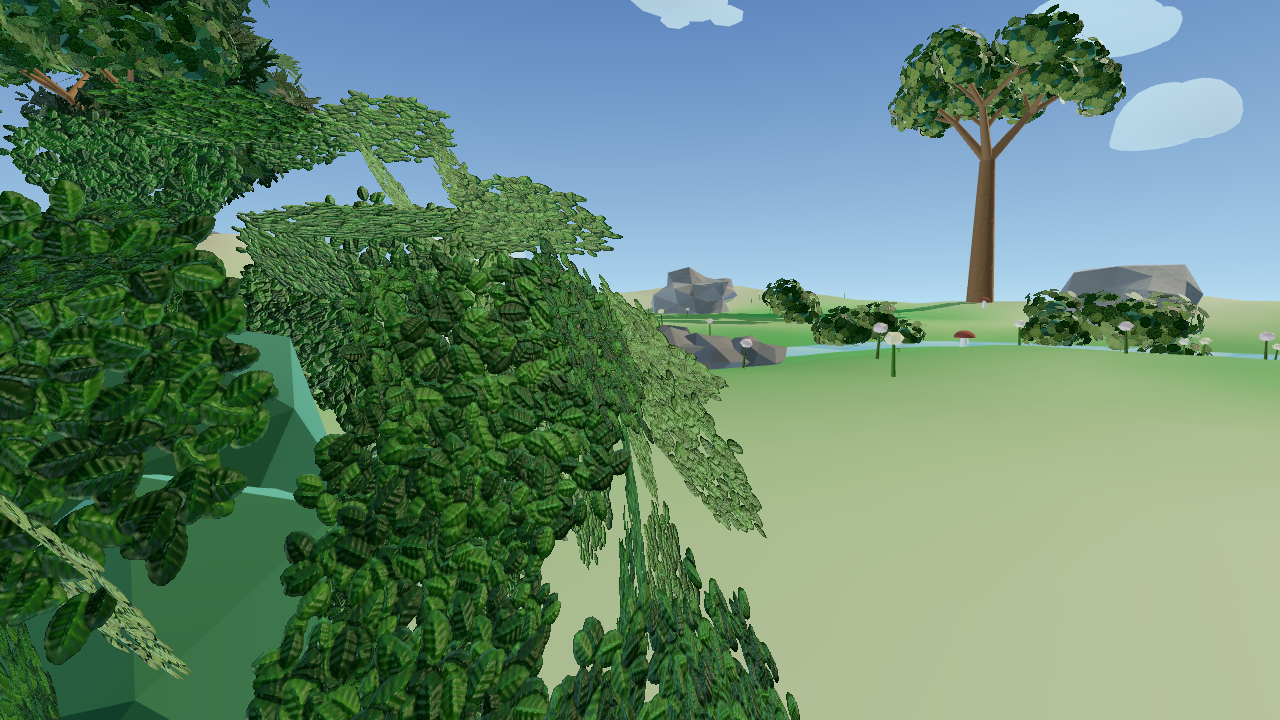
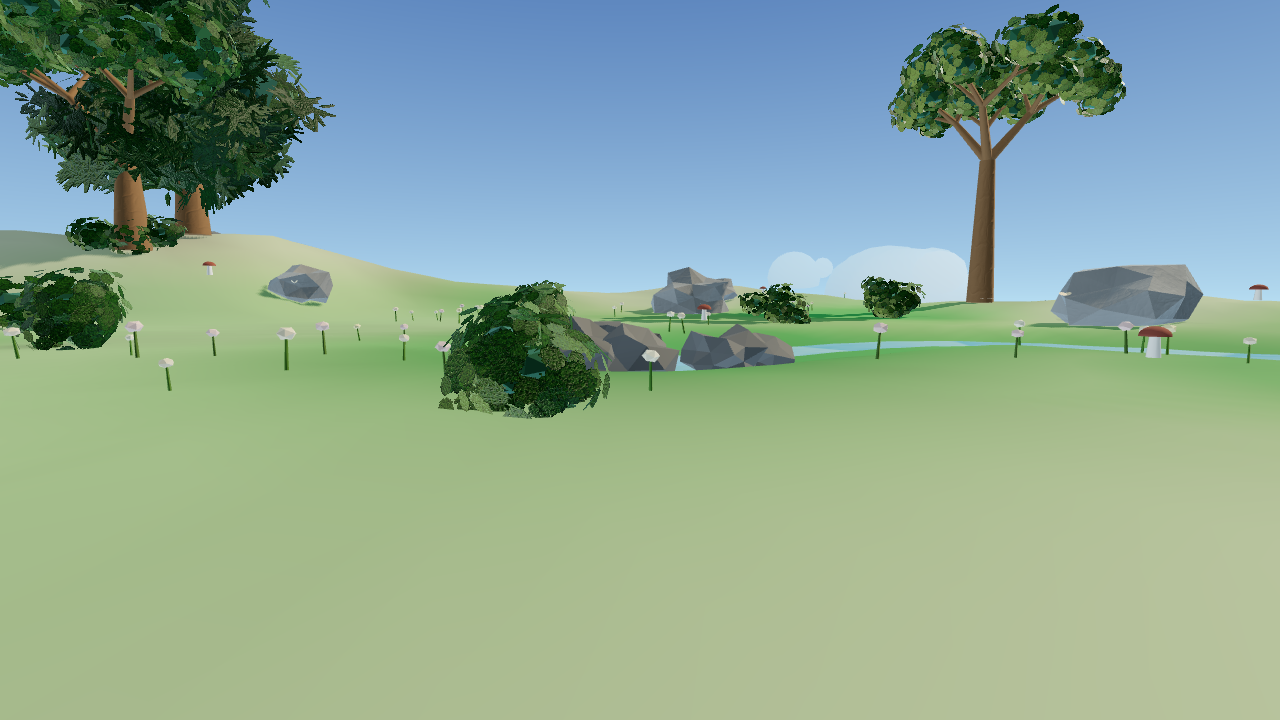
Himmelsinsel: Buesche, Pilze und Blumen halten Abstand zum Bach
Nach dem Entfernen der Grashorste verschob sich der Seed-Strom, und
Buesche und Pilze landeten mitten im Bachlauf - das Wasserband lief
sichtbar durch sie hindurch.

Die Ursache lag tiefer als die Verschiebung: `shape.frei` kannte nur
belegte Plaetze (Findlinge) und den Umriss, nicht das Wasser. Jede
Streudekoration konnte also immer schon im Bach stehen; bis jetzt hatte
es der Zufall nur nicht getan.

`shape.frei(x, z, r)` nimmt deshalb den Fussabdruck des Gewaechses
entgegen und haelt zusaetzlich Abstand zur Lauflinie. Ein Busch mit 0,16
Radius rueckt damit weiter weg als ein Pilz. Der Quelltopf ist breiter
als der Bach (Becken 0,32 plus Steinkranz bis 0,40) und `riverDist`
kennt ihn nicht - er steht jetzt als eigener Eintrag in `shape.blocked`.

**0,40 ist gemessen, nicht geschaetzt.** Der aeusserste Scheitel des
Bandes liegt bei 0,251 von der Lauflinie. Mit 0,27 stand nachweislich
nichts mehr IM Wasser - die naechste Blume sass bei 0,303. Aus
Augenhoehe las sich das trotzdem als "steht im Bach", weil der Stiel aus
flachem Blickwinkel das Band dahinter ueberlappt. Mit 0,40 liegt die
naechste Blume bei 0,491, der naechste Busch bei 0,761, der naechste
Pilz bei 0,902 - gut 0,24 freies Ufer je Seite, bei WORLD_SCALE 4 rund
einen Meter neben einem zwei Meter breiten Bach. Weiter darf es nicht
gehen, sonst wird der Streuradius selbst sichtbar.

Anzahl unveraendert: 90 Blumen, 6 Pilze, 72 Buschansaetze.

Claude-Session: https://claude.ai/code/session_019ooAAggCk5W3y6iLTRVQsN

diff --git a/src/environments.js b/src/environments.js
@@ -1759,7 +1759,7 @@ function addGrassDecoration(group, rand, shape) {
   }
   // Belegte Plätze (Findlinge) und der steil abfallende Rand sind tabu; beides
   // steckt in shape.frei, das buildIsland aufbaut.
-  const frei = (x, z) => !shape.frei || shape.frei(x, z);
+  const frei = (x, z) => !shape.frei || shape.frei(x, z, 0.03);
   // Gibt null zurueck, wenn der Platz belegt ist - der Aufrufer ueberspringt
   // die Instanz dann, statt sie irgendwohin zu setzen.
   const imNest = (nest) => {
@@ -2900,16 +2900,40 @@ function buildIsland(
   // der GELAENDEhoehe, die Bloecke liegen darueber - ein Horst an derselben
   // Stelle waechst sichtbar aus dem Stein heraus oder schwebt davor.
   shape.blocked = [];
-  shape.frei = (x, z) => {
+  // Die Wasserfläche selbst ist tabu.
+  //
+  // Gemessen, nicht geschätzt: Der äußerste Scheitel des Bandes liegt bei 0,251
+  // von der Lauflinie (makeWaterfall, halbe Breite 0,12 an der Quelle bis 0,25
+  // an der Lippe). Dazu kommt der Fußabdruck der Pflanze selbst – ein Busch mit
+  // 0,16 Radius braucht mehr Abstand als ein Pilz –, deshalb nimmt `frei` ihn
+  // als dritten Wert entgegen.
+  //
+  // **Warum 0,40 und nicht 0,27.** Mit 0,27 stand nachweislich nichts mehr IM
+  // Wasser – die nächste Blume saß bei 0,303, also 5 cm hinter der Uferlinie.
+  // Aus Augenhöhe liest sich das trotzdem als „steht im Bach": Der Stiel
+  // überlappt aus flachem Blickwinkel das Band dahinter. 0,40 lässt gut 0,15
+  // freies Ufer je Seite – bei WORLD_SCALE 4 rund 60 cm neben einem zwei Meter
+  // breiten Bach, also eine Uferböschung, wie ein Bach sie hat.
+  //
+  // Weiter darf es nicht gehen: Einen Streuradius, den man ansehen kann, hält
+  // diese Insel schon einmal nicht aus (siehe die 0,96 weiter unten).
+  const WASSER = 0.40;
+  shape.frei = (x, z, r = 0) => {
     for (const b of shape.blocked) {
       if ((x - b.x) ** 2 + (z - b.z) ** 2 < b.r * b.r) return false;
     }
+    if (shape.riverDist(x, z) < WASSER + r) return false;
     // 0,96 statt 0,90: Bei 0,90 endete JEDER Bewuchs schlagartig entlang einer
     // Linie, und darunter lag bis zur Abbruchkante ein völlig glatter, kahler
     // Streifen – ein Streuradius, den man ansehen kann. Die steile Kante selbst
     // hält shape.frei ohnehin frei, weil dort die Grasnarbe abfällt.
     return Math.hypot(x, z) < shape.radius * shape.outline(Math.atan2(x, z)) * 0.96;
   };
+
+  // Der Quelltopf ist breiter als der Bach: Becken mit 0,32 Radius plus
+  // Steinkranz bis 0,40 (makeWaterfall). `riverDist` misst nur zur Lauflinie
+  // und kennt ihn nicht.
+  if (river != null) shape.blocked.push({ x: 0.1, z: 0.2, r: 0.46 });
 
   island.add(buildIslandBody(shape, { detail }));
 
@@ -3078,7 +3102,10 @@ function addUndergrowth(group, rand, shape) {
   const dummy = new THREE.Object3D();
   const color = new THREE.Color();
   const shadowBucket = new GeoBucket();
-  const spot = (min, max) => {
+  // `fuss` ist der Radius, den das Gewächs am Boden einnimmt. Er geht in die
+  // Freiflächenprüfung ein, damit ein breiter Busch weiter vom Wasser
+  // wegrückt als ein Pilz.
+  const spot = (min, max, fuss = 0) => {
     for (let versuch = 0; versuch < 8; versuch++) {
       const angle = rand() * TAU;
       const r = shape.radius * shape.outline(angle) * (min + rand() * (max - min));
@@ -3086,9 +3113,10 @@ function addUndergrowth(group, rand, shape) {
       const z = Math.cos(angle) * r;
       // Findlinge liegen ueber der Gelaendehoehe; ein Busch oder Pilz an
       // derselben Stelle waechst sichtbar aus dem Stein.
-      if (!shape.frei || shape.frei(x, z)) return [x, shape.heightAt(x, z), z];
+      if (!shape.frei || shape.frei(x, z, fuss)) return [x, shape.heightAt(x, z), z];
     }
-    return [0, shape.heightAt(0, 0), 0];
+    // Achter Fehlversuch: lieber gar nicht setzen als in den Bach.
+    return null;
   };
 
   // --- Büsche ---------------------------------------------------------------
@@ -3104,8 +3132,12 @@ function addUndergrowth(group, rand, shape) {
   const buschAnsaetze = [];
   const BUESCHE = 14;
   for (let i = 0; i < BUESCHE; i++) {
-    const [x, y, z] = spot(0.24, 0.90);
+    // Größe VOR dem Platz würfeln: Der Fußabdruck entscheidet mit, wo der
+    // Busch stehen darf.
     const s = 0.085 + rand() * 0.075;
+    const platz = spot(0.24, 0.90, s * 1.7);
+    if (!platz) continue;
+    const [x, y, z] = platz;
     // Zwei bis drei Ansätze je Busch: ein Strauch ist kein Ball.
     const n = 2 + Math.floor(rand() * 2);
     for (let k = 0; k < n; k++) {
@@ -3171,7 +3203,16 @@ function addUndergrowth(group, rand, shape) {
   mushrooms.name = 'mushrooms';
   mushrooms.userData.fullCount = mushrooms.count;
   for (let i = 0; i < mushrooms.count; i++) {
-    const [x, y, z] = spot(0.2, 0.9);
+    const platz = spot(0.2, 0.9, 0.07);
+    if (!platz) {
+      dummy.position.set(0, -999, 0);
+      dummy.scale.setScalar(0);
+      dummy.updateMatrix();
+      mushrooms.setMatrixAt(i, dummy.matrix);
+      dummy.scale.setScalar(1);
+      continue;
+    }
+    const [x, y, z] = platz;
     dummy.position.set(x, y, z);
     dummy.scale.setScalar(0.45 + rand() * 0.4);
     dummy.rotation.set(0, rand() * Math.PI, 0);
